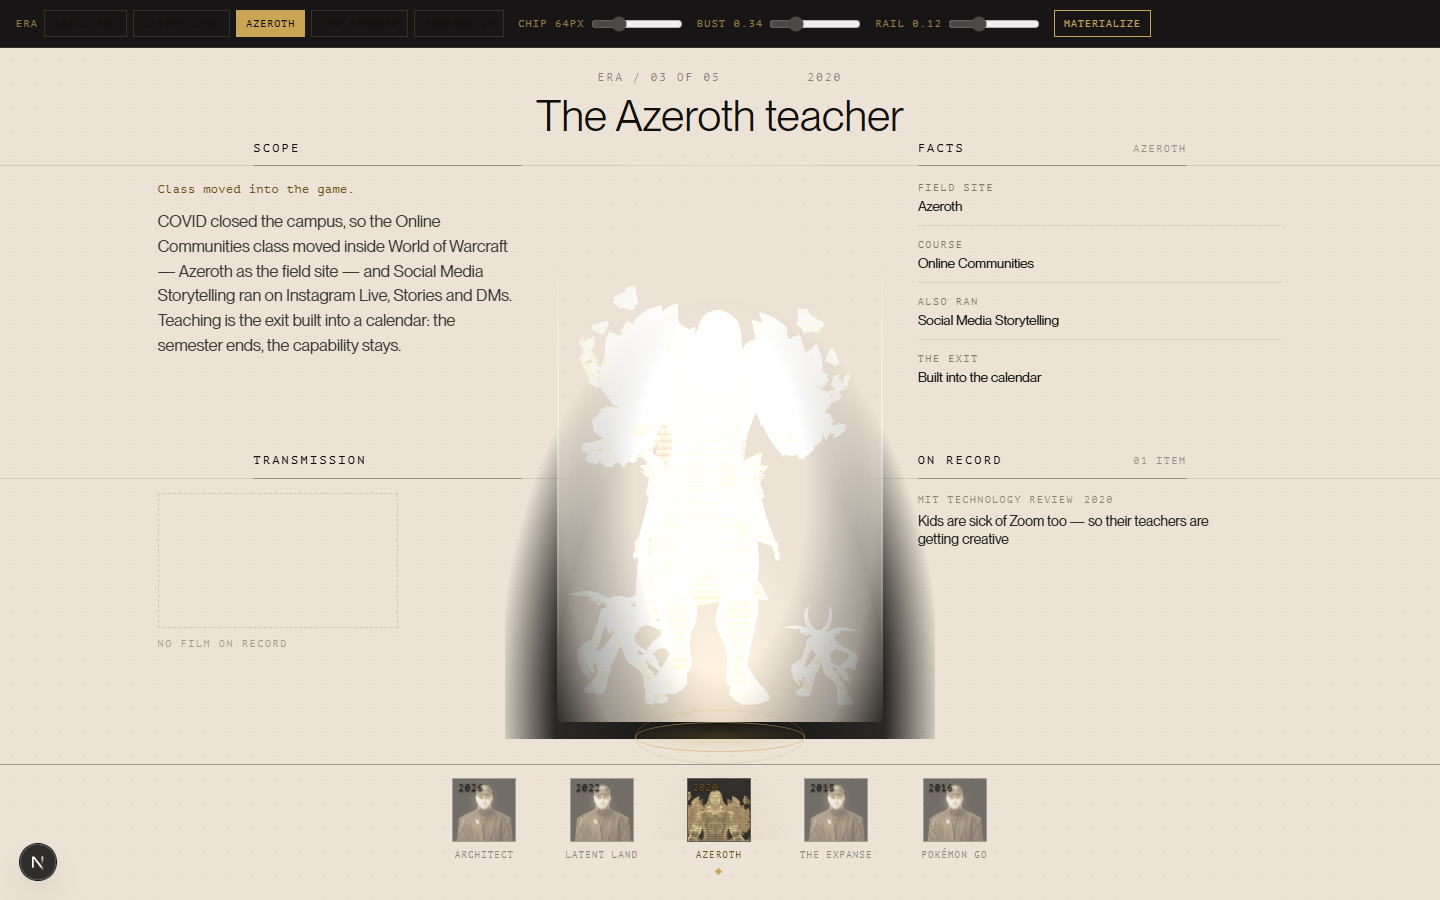
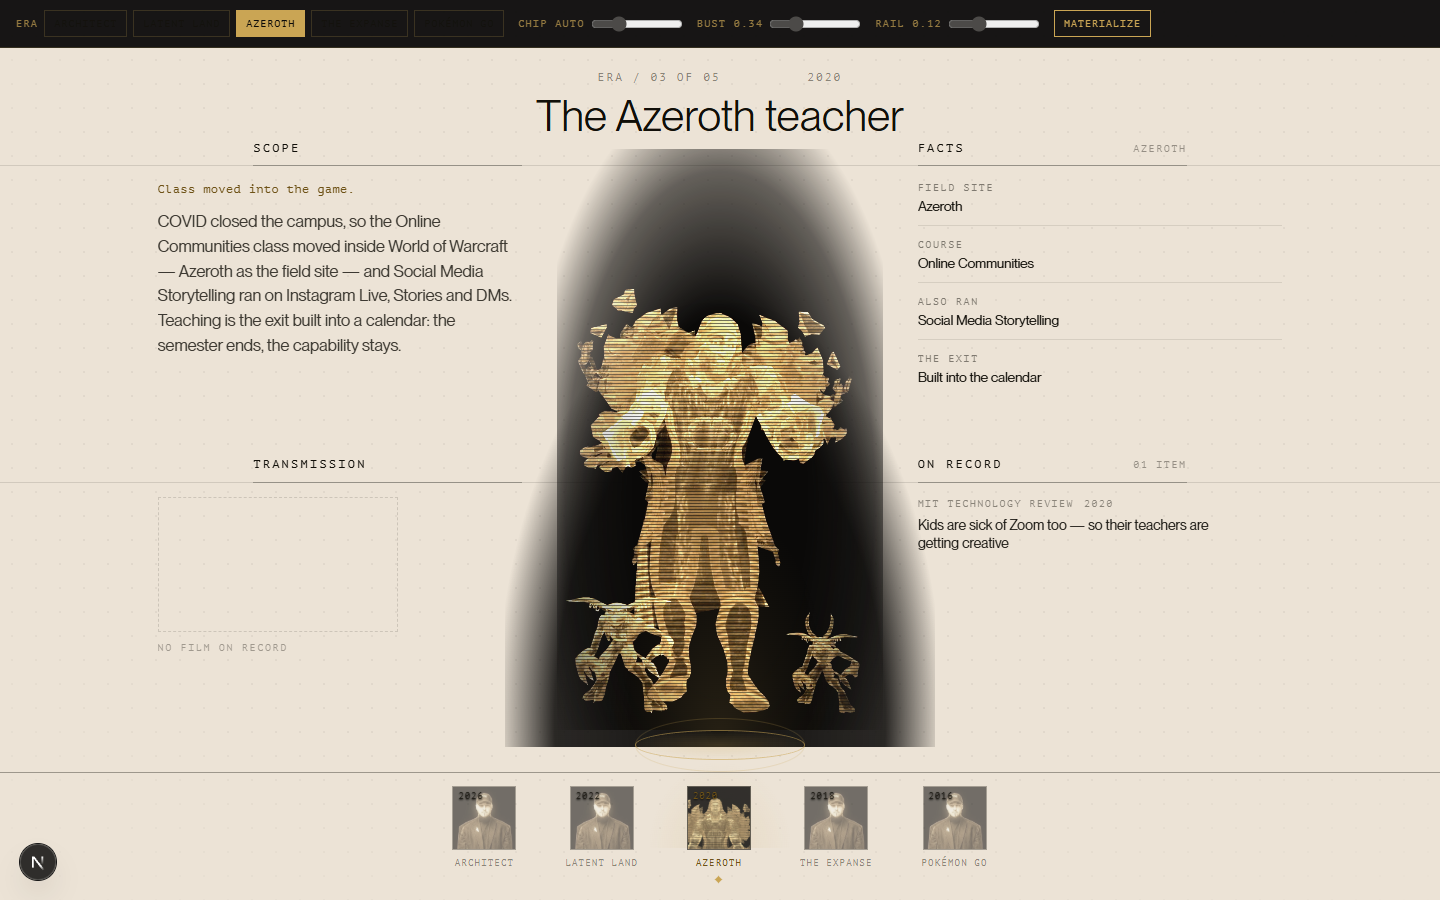
fix(voidwalker): the hologram's floor is a constant, not a themeable surface
In light theme the fallback figure blew out to a flat white silhouette.
`.vwh__media-wrap` painted its compositing floor from `--vwh-void-rgb` →
`--void-rgb`, which ADR-058 SWAPS TO PARCHMENT in light — and
`plus-lighter` over a near-white floor returns white. The floor's entire
job is to give an additive blend something dark to add onto; there is no
theme in which it may be light, so it gets its own token and that token
does not flip.

⚠ THE INTENDED FIX WAS ALREADY IN THE SHEET AND WAS BEING COVERED. The
light block paints a dark projection well on `.vwh__ground` with the
comment "ADDITIVE LIGHT IS STILL INVISIBLE ON PAPER, so the figure keeps
its dark projection well" — correct, and defeated, because
`.vwh__media-wrap` sits IN FRONT of the ground and carried its own
parchment floor. A dark layer behind a light one is not a dark ground.
That comment asserted something untrue for as long as it has existed and
is corrected here rather than left to mislead the next reader.

⚠ SCOPED, NOT BLANKET. Three rules read `--vwh-void-rgb`; only the floor
must never flip. The film play disc's two keep reading it and keep
flipping, because they are SURFACES sitting on a photograph, not floors
under a blend. Retokenising the shared value would have silently restyled
the play button on a production surface to fix something else.

⚠ AND THE LANDING NEVER SHOWED IT. Measured on the live station:
`data-holo-alpha` is SET there, so the floor is already cleared and this
[…]

diff --git a/components/landing/home-v2/voidwalker/hologram/voidwalker-hologram.css b/components/landing/home-v2/voidwalker/hologram/voidwalker-hologram.css
@@ -25,6 +25,20 @@
   --vwh-display: var(--font-pp-neue-montreal, "PP Neue Montreal", system-ui, sans-serif);
   --vwh-gold-rgb: var(--gold-rgb, 202, 165, 84);
   --vwh-void-rgb: var(--void-rgb, 10, 9, 8);
+  /* ⚠ THE FLOOR IS A COMPOSITING CONSTANT, NOT A THEMEABLE SURFACE, so it
+     gets its own token and that token does not flip. `--vwh-void-rgb` reads
+     `--void-rgb`, which ADR-058 swaps to PARCHMENT in light — and
+     `plus-lighter` over a near-white floor returns white, so the whole
+     figure blew out to a flat silhouette on paper. The light block below
+     already paints a dark projection well on `.vwh__ground` for exactly
+     this reason, and it was being covered by the wrap's own floor one layer
+     in front of it: the intended fix was present and defeated.
+     ⚠ It stays a LITERAL. Every ramp in this file is a colour a reader
+     perceives; this is the base an additive blend adds onto, and there is
+     no theme in which it may be light. The other two consumers of
+     `--vwh-void-rgb` (the film play button's disc) still flip, deliberately
+     — they are surfaces, not floors. */
+  --vwh-floor-rgb: 10, 9, 8;
   /* One height ladder owns both the projector silhouette and its contact
      plane. The disc top is the authored floor Vince stands on; deriving the
      overlap from this inset (rather than a percentage of column WIDTH) keeps
@@ -290,7 +304,7 @@
      with `mask-composite: intersect` carrying edge + scan together, and
      it silently did not apply. The wrap carries the EDGE, the media
      carries the SCAN. */
-  background: rgb(var(--vwh-void-rgb));
+  background: rgb(var(--vwh-floor-rgb));
   -webkit-mask-image: radial-gradient(
     ellipse 66% 78% at 50% 60%,
     #000 40%,
@@ -1645,7 +1659,13 @@ a.vwh__press:focus-visible .vwh__press__headline {
    text on parchment (ADR-063 U2's ramp exists for exactly that) — plus
    the dim neutrals, because an alpha inverts its own meaning across the
    flip. ADDITIVE LIGHT IS STILL INVISIBLE ON PAPER, so the figure keeps
-   its dark projection well. */
+   its dark projection well.
+   ⚠ AND THE WELL ALONE WAS NOT ENOUGH — this rule shipped correct and did
+   nothing, because `.vwh__media-wrap` sits IN FRONT of `.vwh__ground` and
+   carried its own floor off a token that flips to parchment, covering the
+   well and blowing the figure out to a white silhouette. The floor is
+   `--vwh-floor-rgb` now and never flips (see the token block). A dark layer
+   behind a light one is not a dark ground. */
 html[data-theme="light"] .vwh__ground {
   background: radial-gradient(
     ellipse 62% 80% at 50% 96%,

diff --git a/.claude/rules/voidwalker.md b/.claude/rules/voidwalker.md
@@ -73,6 +73,21 @@ handoff and the `701–1100px` complete fallback alone.
   is the wave's.
   ⚠ **DO NOT DELETE THE FLOOR RULES**: Safari has no self-hostable alpha codec
   here (HEVC-alpha needs macOS videotoolbox) and keeps them.
+  ⚠ **AND THE FLOOR IS A COMPOSITING CONSTANT, NOT A THEMEABLE SURFACE
+  (2026-08-31).** It read `--vwh-void-rgb` → `--void-rgb`, which ADR-058
+  SWAPS TO PARCHMENT in light — and `plus-lighter` over a near-white floor
+  returns white, so the fallback figure blew out to a flat silhouette on
+  paper. `--vwh-floor-rgb` is a literal and never flips; the other consumers
+  of `--vwh-void-rgb` (the film play disc) still flip, because they are
+  surfaces. ⚠ The light block's own `.vwh__ground` well was already correct
+  and was being COVERED by the wrap's floor one layer in front of it — a
+  dark layer behind a light one is not a dark ground, and the rule looked
+  right in the sheet the whole time. ⚠ **THE LANDING IS ON THE ALPHA BRANCH,
+  SO THIS IS INVISIBLE THERE** (`data-holo-alpha` measured set on the live
+  station, floor cleared): it is the SAFARI path that was broken, which is
+  precisely the path U6 says may never be worse than it is. Verify a floor
+  change on the fallback branch explicitly — the alpha branch will pass it
+  either way.
   ⚠ **ROUTING IS A DECODE PROBE, NEVER `canPlayType`** — Safari plays
   VP9-in-WebM, ignores its alpha and answers "probably", so source order alone
   would make Safari WORSE than today. `lib/voidwalker/holoAlphaSupport.ts`
